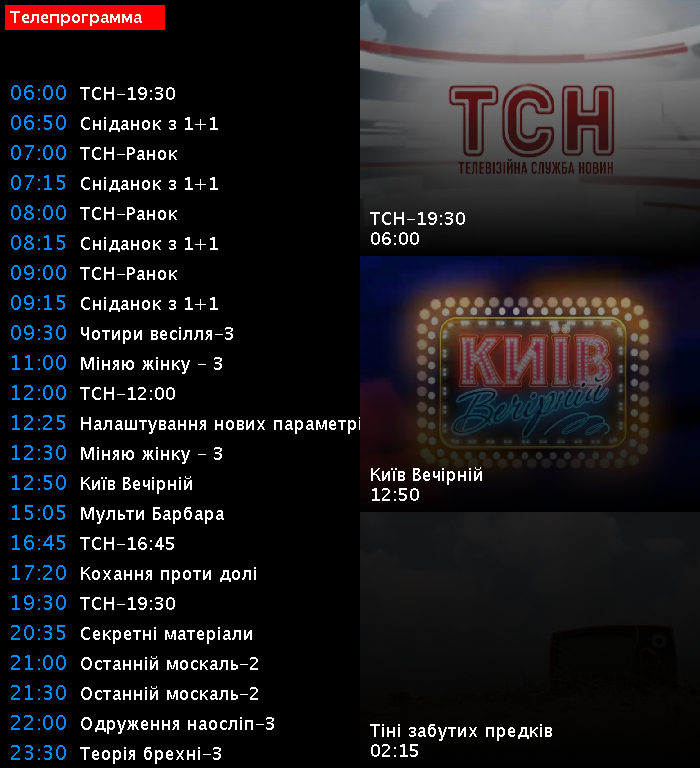
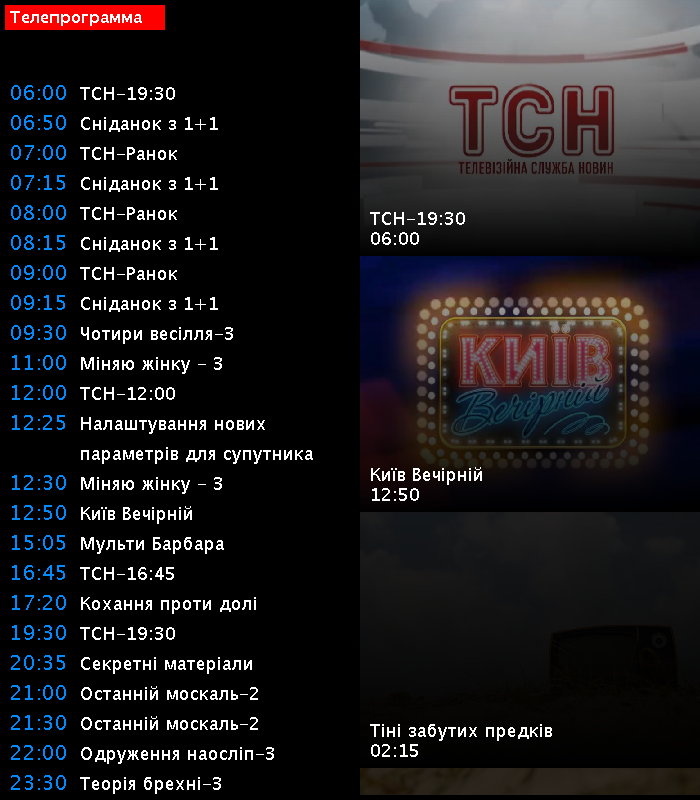
Fix new line

diff --git a/src/main/java/com/risingapp/test/image/ImageGenerator.java b/src/main/java/com/risingapp/test/image/ImageGenerator.java
@@ -12,11 +12,11 @@ import java.awt.image.BufferedImage;
 import java.io.IOException;
 import java.net.URL;
 import java.text.SimpleDateFormat;
-import java.util.Date;
+import java.util.*;
 
 @org.springframework.stereotype.Component
 public class ImageGenerator {
-    private static final int HEIGHT = 768;
+    private static final int HEIGHT = 800;
     private static final int WIDTH = 700;
     private static final int LEFT_POS = 10;
 
@@ -44,9 +44,12 @@ public class ImageGenerator {
 
             graphicsGlobal.setFont(new Font("default", Font.PLAIN, 18));
             graphicsGlobal.setColor(new Color(255, 255, 255));
-            graphicsGlobal.drawString(currenProgram.getTitle(), LEFT_POS + 70, yPos);
 
-            yPos += 30;
+
+            for (String line : getTitleLines(currenProgram.getTitle())) {
+                graphicsGlobal.drawString(line, LEFT_POS + 70, yPos);
+                yPos += 30;
+            }
         }
 
         // draw 3 big images
@@ -85,7 +88,27 @@ public class ImageGenerator {
         return resultImage;
     }
 
-    //TODO fix
+    private static java.util.List<String> getTitleLines(String title) {
+
+        java.util.List<String> lines = new ArrayList<>();
+        if (title.length() <= 26) return Arrays.asList(title);
+
+        int s = 0;
+        String[] words = title.split(" ");
+        for (int i = 0; i < words.length; i++) {
+            if (i == words.length - 1) return Arrays.asList(title);
+
+            if (words[i].length() + s > 24) {
+
+                lines.add(title.substring(0, s - 1));
+                lines.addAll(getTitleLines(title.substring(s, title.length())));
+                break;
+            }
+            s += words[i].length() + 1;
+        }
+        return lines;
+    }
+
     private String parseTime(int dateTime) {
         long longTime = (long) dateTime * 1000L;
         SimpleDateFormat localDateFormat = new SimpleDateFormat("HH:mm");
